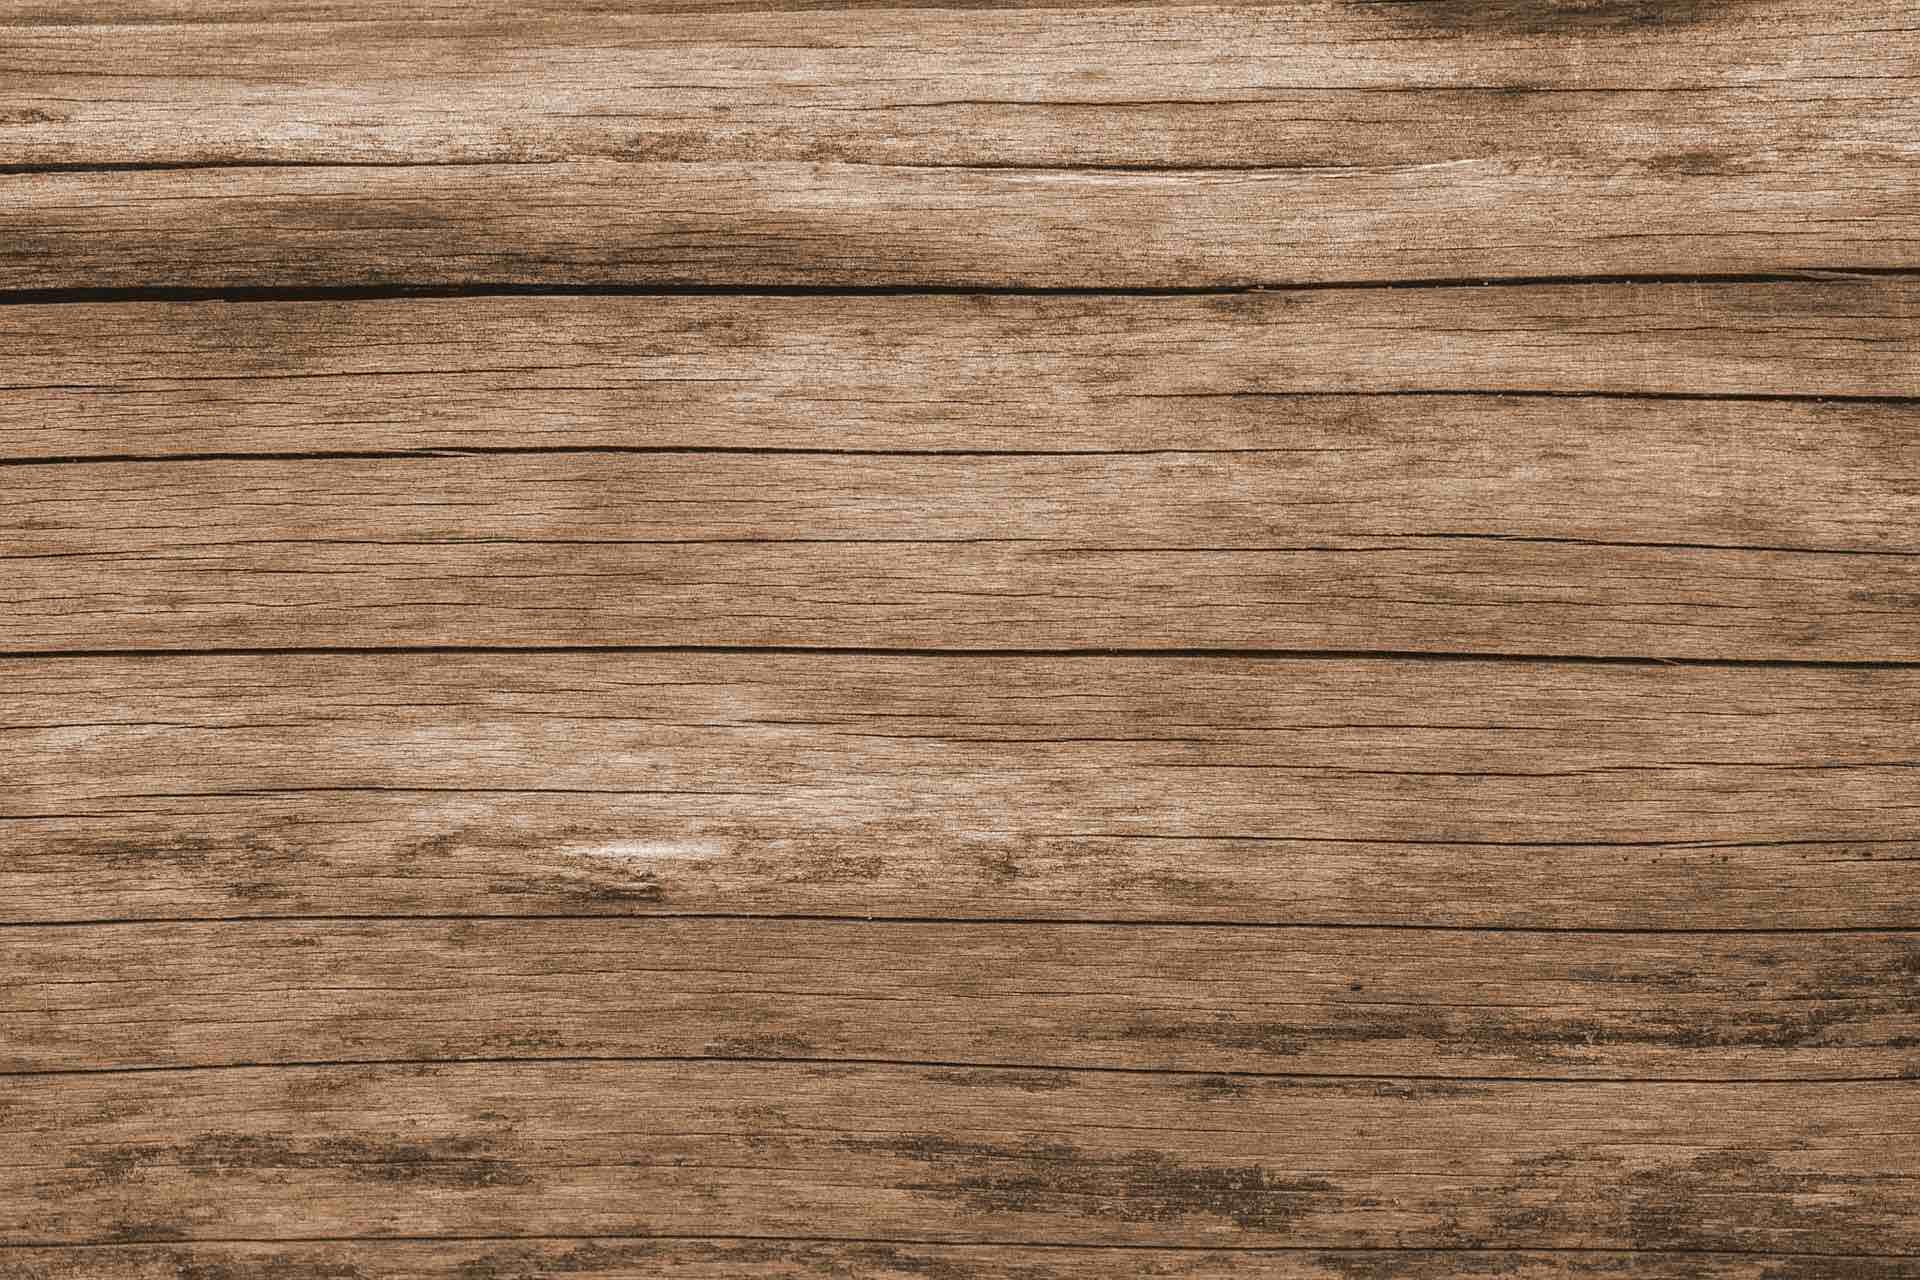
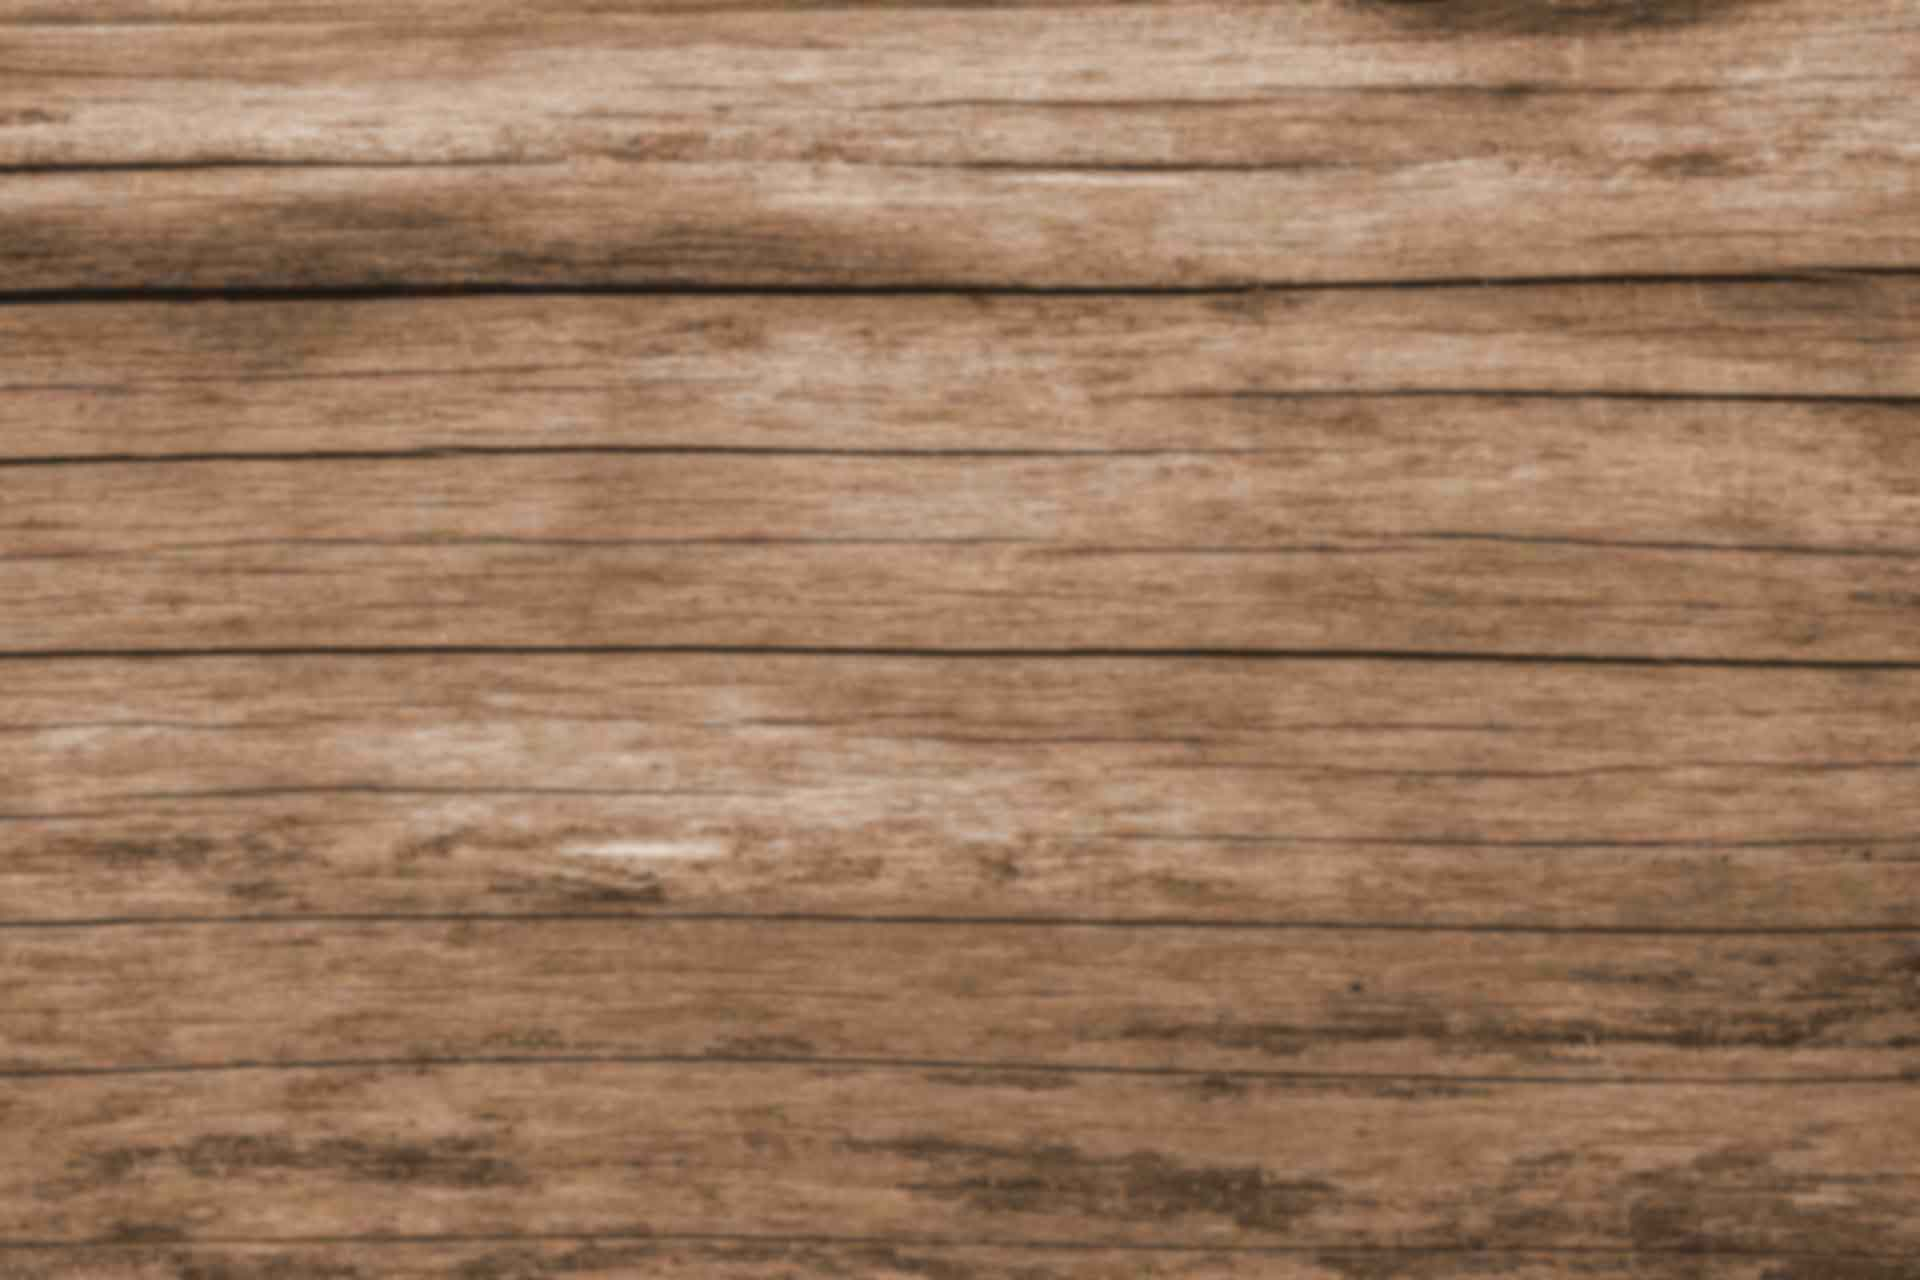
Made minor changes to layout

Changed region(s): [[0.0, 0.0, 1.0, 1.0]]

diff --git a/index.css b/index.css
@@ -26,6 +26,7 @@ body {
     font-family: avenir next;
     z-index:1;
     background-color: black;
+    border-radius: 4%;
 }
 
 #navContainer ul li {
@@ -56,7 +57,7 @@ body {
     padding-top: 1.7em;
     font-weight: 300;
     letter-spacing: 3pt;
-    font-size: 3.75rem;
+    font-size: 4.75rem;
     text-align: center;
     vertical-align: center;
 }
@@ -66,12 +67,12 @@ body {
     color: #fff;
     font-weight: 300;
     letter-spacing: 3pt;
-    font-size: 1rem;
+    font-size: 1.05rem;
     text-align: center;
 }
 
 #header {
-    background: linear-gradient(rgba(0, 0, 0, 0.17), rgba(0, 0, 0, 0.17)), #000 url('resources/wood_smaller.jpg') no-repeat center center fixed;
+    background: linear-gradient(rgba(0, 0, 0, 0.17), rgba(0, 0, 0, 0.17)), #000 url('resources/wood_smaller-copy.jpg') no-repeat center center fixed;
     width: 100%;
     height: 122%;
     background-size: cover;
@@ -352,7 +353,7 @@ text-align: center;
 
 #project1 {
 float: left;
-width: 30%;
+width: 32.25%;
 padding-top: 3.75%;
 padding-left: 1%;
 }
@@ -378,14 +379,14 @@ margin-left: -10%;
 
 #project2 {
 float: left;
-width: 30%;
+width: 32.25%;
 padding-top: 3%;
 padding-left: 1%;
 }
 
 #project3 {
 float: left;
-width: 30%;
+width: 32.25%;
 padding-top: 3%;
 padding-left: 1%;
 }
